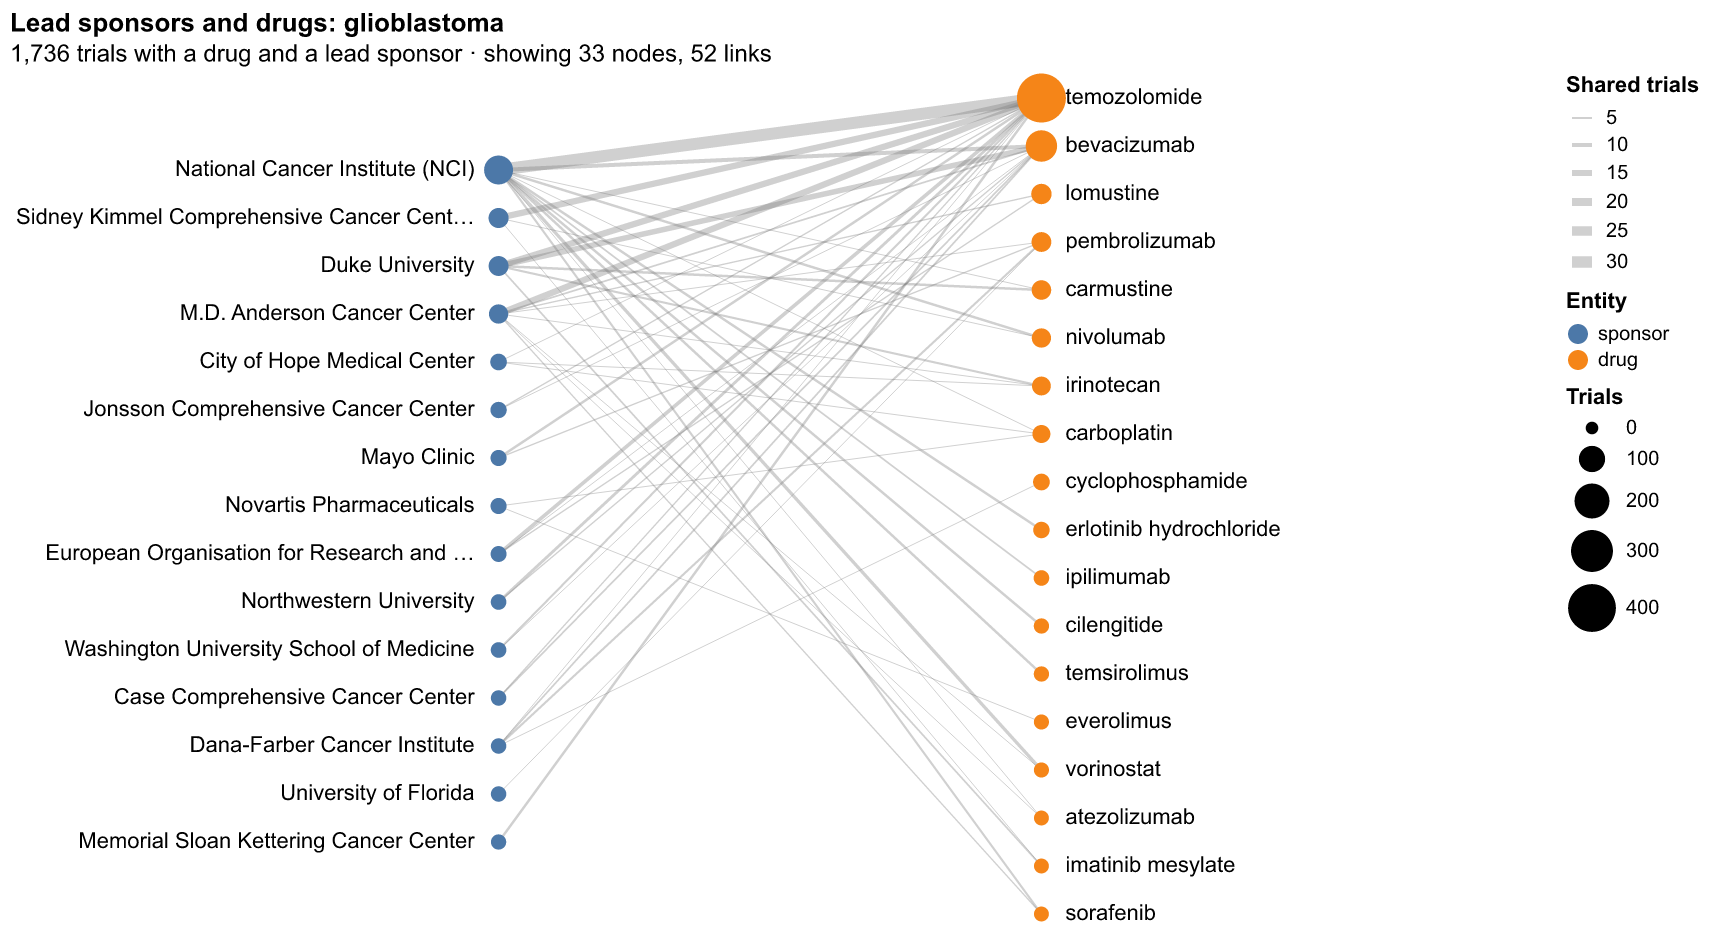
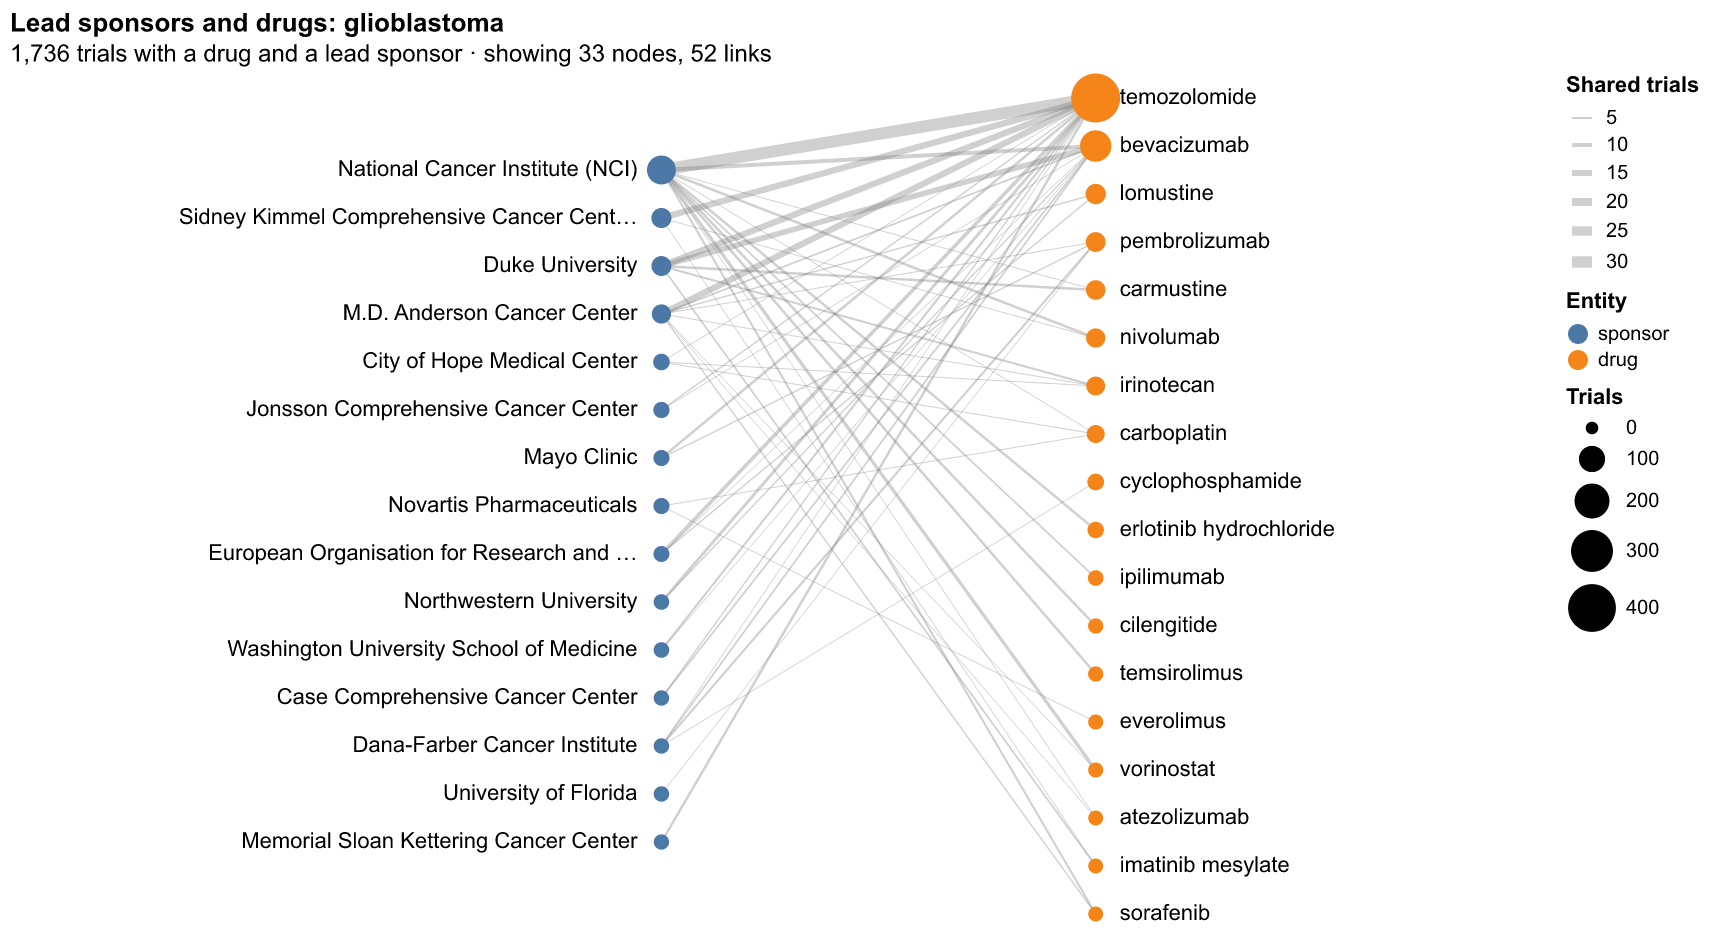
Regenerate the live examples with the current response fields; one Vega-Lite version (6.4) for images and the web page; record measured goals

Changed region(s): [[0.0, 0.0612, 0.7749, 0.9789], [0.062, 0.8259, 0.4029, 0.9177]]

diff --git a/src/clinical_trials_viz/web/index.html b/src/clinical_trials_viz/web/index.html
@@ -77,9 +77,9 @@
   #loading { display: none; }
   #loading.on { display: inline; }
 </style>
-<script src="https://cdn.jsdelivr.net/npm/vega@5"></script>
-<script src="https://cdn.jsdelivr.net/npm/vega-lite@5"></script>
-<script src="https://cdn.jsdelivr.net/npm/vega-embed@6"></script>
+<script src="https://cdn.jsdelivr.net/npm/vega@6.2.0"></script>
+<script src="https://cdn.jsdelivr.net/npm/vega-lite@6.4.3"></script>
+<script src="https://cdn.jsdelivr.net/npm/vega-embed@7.0.2"></script>
 </head>
 <body>
 <header>

diff --git a/src/clinical_trials_viz/render.py b/src/clinical_trials_viz/render.py
@@ -25,6 +25,9 @@ class NotRenderable(Exception):
 
 
 DATUM_INDEX = "_datum"  # position in spec.datums(), so an interactive page can map a click to its Citation
+# The image renderer and the web page (web/index.html) use the same Vega-Lite release.
+VEGA_LITE_VERSION = "6.4"
+_SCHEMA = "https://vega.github.io/schema/vega-lite/v6.json"
 
 
 def _values(spec: VisualizationSpec) -> list[dict[str, Any]]:
@@ -51,7 +54,7 @@ def to_vega_lite(spec: VisualizationSpec) -> dict[str, Any]:
     if spec.subtitle:
         title["subtitle"] = spec.subtitle
     base: dict[str, Any] = {
-        "$schema": "https://vega.github.io/schema/vega-lite/v5.json",
+        "$schema": _SCHEMA,
         "title": title,
         "data": {"values": _values(spec)},
         "config": {"view": {"stroke": None}, "axis": {"labelLimit": 220}},
@@ -231,7 +234,7 @@ def _network(spec: VisualizationSpec) -> dict[str, Any]:
     if spec.subtitle:
         title["subtitle"] = spec.subtitle
     return {
-        "$schema": "https://vega.github.io/schema/vega-lite/v5.json",
+        "$schema": _SCHEMA,
         "title": title,
         "width": width,
         "height": height,
@@ -288,7 +291,7 @@ def chart_problem(spec: VisualizationSpec) -> str | None:
     """Why this specification cannot become an image, or None. It compiles the chart to Vega without
     drawing it (milliseconds), so a broken chart is caught before its `chart_url` is handed out."""
     try:
-        vl_convert.vegalite_to_vega(to_vega_lite(spec))
+        vl_convert.vegalite_to_vega(to_vega_lite(spec), vl_version=VEGA_LITE_VERSION)
     except NotRenderable as exc:
         return str(exc)
     except Exception as exc:  # vl-convert raises ValueError for an invalid spec; anything else is a bug
@@ -300,5 +303,5 @@ def chart_problem(spec: VisualizationSpec) -> str | None:
 def render(spec: VisualizationSpec, fmt: ImageFormat) -> bytes:
     vl = to_vega_lite(spec)
     if fmt == "svg":
-        return vl_convert.vegalite_to_svg(vl, allowed_base_urls=[]).encode()
-    return vl_convert.vegalite_to_png(vl, scale=2, allowed_base_urls=[])
+        return vl_convert.vegalite_to_svg(vl, vl_version=VEGA_LITE_VERSION, allowed_base_urls=[]).encode()
+    return vl_convert.vegalite_to_png(vl, vl_version=VEGA_LITE_VERSION, scale=2, allowed_base_urls=[])

diff --git a/tests/test_failures.py b/tests/test_failures.py
@@ -211,7 +211,7 @@ async def test_source_failures_carry_a_code(make_client, ctgov, no_sleep, respon
 
 
 async def test_a_chart_that_cannot_compile_keeps_the_answer_and_drops_the_link(make_client, monkeypatch):
-    def invalid(spec):
+    def invalid(spec, **options):
         raise ValueError("invalid Vega-Lite specification")
 
     monkeypatch.setattr(render_module.vl_convert, "vegalite_to_vega", invalid)

diff --git a/docs/harness-design.md b/docs/harness-design.md
@@ -8,14 +8,14 @@
 
 Targets agreed 2026-10-03, except where marked.
 
-| Goal | Target | Measured by |
-|---|---|---|
-| No made-up numbers | 100%, guaranteed by the design | The model never outputs values, IDs or citations; code produces all of them |
-| Interpretation accuracy | ≥ 90% correct plans on a fixed set of ~30–40 test questions | Plan-level evals |
-| Citations add up | 100% of data points | Verifier recounts every bar, bucket or edge from its cited trials |
-| Honest failure | 0 runs that report success after incomplete data | Tests that inject failures |
-| Latency | No target (this is a demo); measured and reported. Hard cap: undecided | Timing spans per stage |
-| Cost | ≤ 3 model calls per query | Counted on every run |
+| Goal | Target | Measured by | Result (2026-10-04) |
+|---|---|---|---|
+| No made-up numbers | 100%, guaranteed by the design | The model never outputs values, IDs or citations; code produces all of them | Met by design: the model returns only a plan; every count, cited trial and citation comes from code and the registry |
+| Interpretation accuracy | ≥ 90% correct plans on a fixed set of ~30–40 test questions | Plan-level evals | 42 questions: `gpt-5.4-mini` 100%, `claude-haiku-4-5` 95% (`evals/results/`) |
+| Citations add up | 100% of data points | Verifier recounts every bar, bucket or edge from its cited trials | Every answer passes the verifier before it is returned; tamper tests prove it rejects wrong counts and citations |
+| Honest failure | 0 runs that report success after incomplete data | Tests that inject failures | Failure-injection tests for the model, ClinicalTrials.gov, charts and storage (`tests/test_failures.py`) |
+| Latency | No target (this is a demo); measured and reported. Hard cap: undecided locally; ~30 s when hosted ([hosted-deployment.md](hosted-deployment.md)) | Timing spans per stage | 1.7–4.9 s for the five live examples (planning 1.1–2.3 s, retrieval 0.6–2.7 s) |
+| Cost | ≤ 3 model calls per query | Counted on every run | Enforced; each live example used 1 call |
 
 Paging (≤ 1000 trials per page) limits how much can be fetched before the deadline. Past the cap, return `scope_required`; never sample silently.
 
@@ -159,7 +159,7 @@ Each run ends in exactly one outcome: `success`, `no_data` (only after complete 
 
 ## 7. Order to work in
 
-1. Goals, scope and counting rules doc (sections 1–3, decided with the user). Scope and counting rules decided 2026-10-03; the numeric targets in section 1 are still proposals.
+1. Goals, scope and counting rules doc (sections 1–3, decided with the user 2026-10-03). Results against the section 1 goals measured 2026-10-04. Steps 1–7 are done.
 2. API spike; save fixtures. **Done 2026-10-03** ([api-data-guide.md](research/api-data-guide.md)).
 3. Typed models: `QueryRequest`, `QueryPlan`, `AnalysisResult` (each datum carries its contributing trials), `Visualization`, `QueryResponse`.
 4. One end-to-end slice: trial count by start year, with citations, verification and replay.

diff --git a/CLAUDE.md b/CLAUDE.md
@@ -39,9 +39,9 @@ This folder is a clean start. It replaces earlier work in `/Users/mubinmodi/Data
 
 - Working version (2026-10-04): FastAPI service with the full pipeline for `aggregate` (single value, bar, time series), `compare` (grouped bar with overlap group) and `per_trial` (table), data-built clarifications, verifier, Vega-Lite PNG/SVG rendering and run records. `relate` returns a `network_graph`: `sponsor_drug` (two-column image) or `drug_drug` same-arm combinations (circular image). `bin` returns an enrollment `histogram` (actual vs estimated). `per_trial` returns a `table`, a `timeline` or a `scatter_plot` (enrollment vs duration), by `view`. Optional `keywords` filter (free text) for topics that are neither drug nor condition; sponsor categories are never sponsor names (gate check). All tickets under `.scratch/clinical-trials-viz-service/` are done.
 - The six assignment screenshots are in `docs/assignment-images/`.
-- API spike done: findings in `docs/research/api-data-guide.md`, saved responses in `docs/research/api-spike/`. Scope and counting rules are decided (`harness-design.md` sections 2–3); the numeric goals in section 1 are still proposals.
+- API spike done: findings in `docs/research/api-data-guide.md`, saved responses in `docs/research/api-spike/`. Goals, scope and counting rules are decided (`harness-design.md` sections 1–3); section 1 records the measured results.
 - Run with real models (OpenAI primary, Anthropic fallback); planner eval: gpt-5.4-mini 100%, claude-haiku-4-5 95% on 42 questions (`evals/results/`). Expected plans reviewed by the user (ticket 08 done).
-- README and five live example outputs (`examples/`) exist; examples predate multi-part questions and `series_by` and should be regenerated. Open: packaging as a zip.
+- README and five live example outputs (`examples/`, regenerated 2026-10-04 with the current response fields). The web page and the image renderer both use Vega-Lite 6.4 (`render.VEGA_LITE_VERSION`; exact CDN versions pinned in `web/index.html`). Next: the hosted version as decided in `docs/hosted-deployment.md`, then the final zip.
 
 ## Commands
 

diff --git a/examples/README.md b/examples/README.md
@@ -1,6 +1,6 @@
 # Example outputs
 
-Real runs of the service against the live ClinicalTrials.gov API (data timestamp `2026-10-02T09:00:04`, run 2026-10-03, planner `openai:gpt-5.4-mini`). Each folder holds the exact `request.json`, the full `response.json` returned by `POST /v1/query`, and `chart.png` rendered by `GET /v1/runs/{run_id}/chart.png`. Nothing was edited by hand. Regenerate with `uv run python -m examples.generate` (results change as the registry updates).
+Real runs of the service against the live ClinicalTrials.gov API (data timestamp `2026-10-02T09:00:04`, run 2026-10-04, planner `openai:gpt-5.4-mini`). Each folder holds the exact `request.json`, the full `response.json` returned by `POST /v1/query`, and `chart.png` rendered by `GET /v1/runs/{run_id}/chart.png`. Nothing was edited by hand. Regenerate with `uv run python -m examples.generate` (results change as the registry updates).
 
 | Example | Question | Outcome | Chart | Cited trials |
 |---|---|---|---|---|
